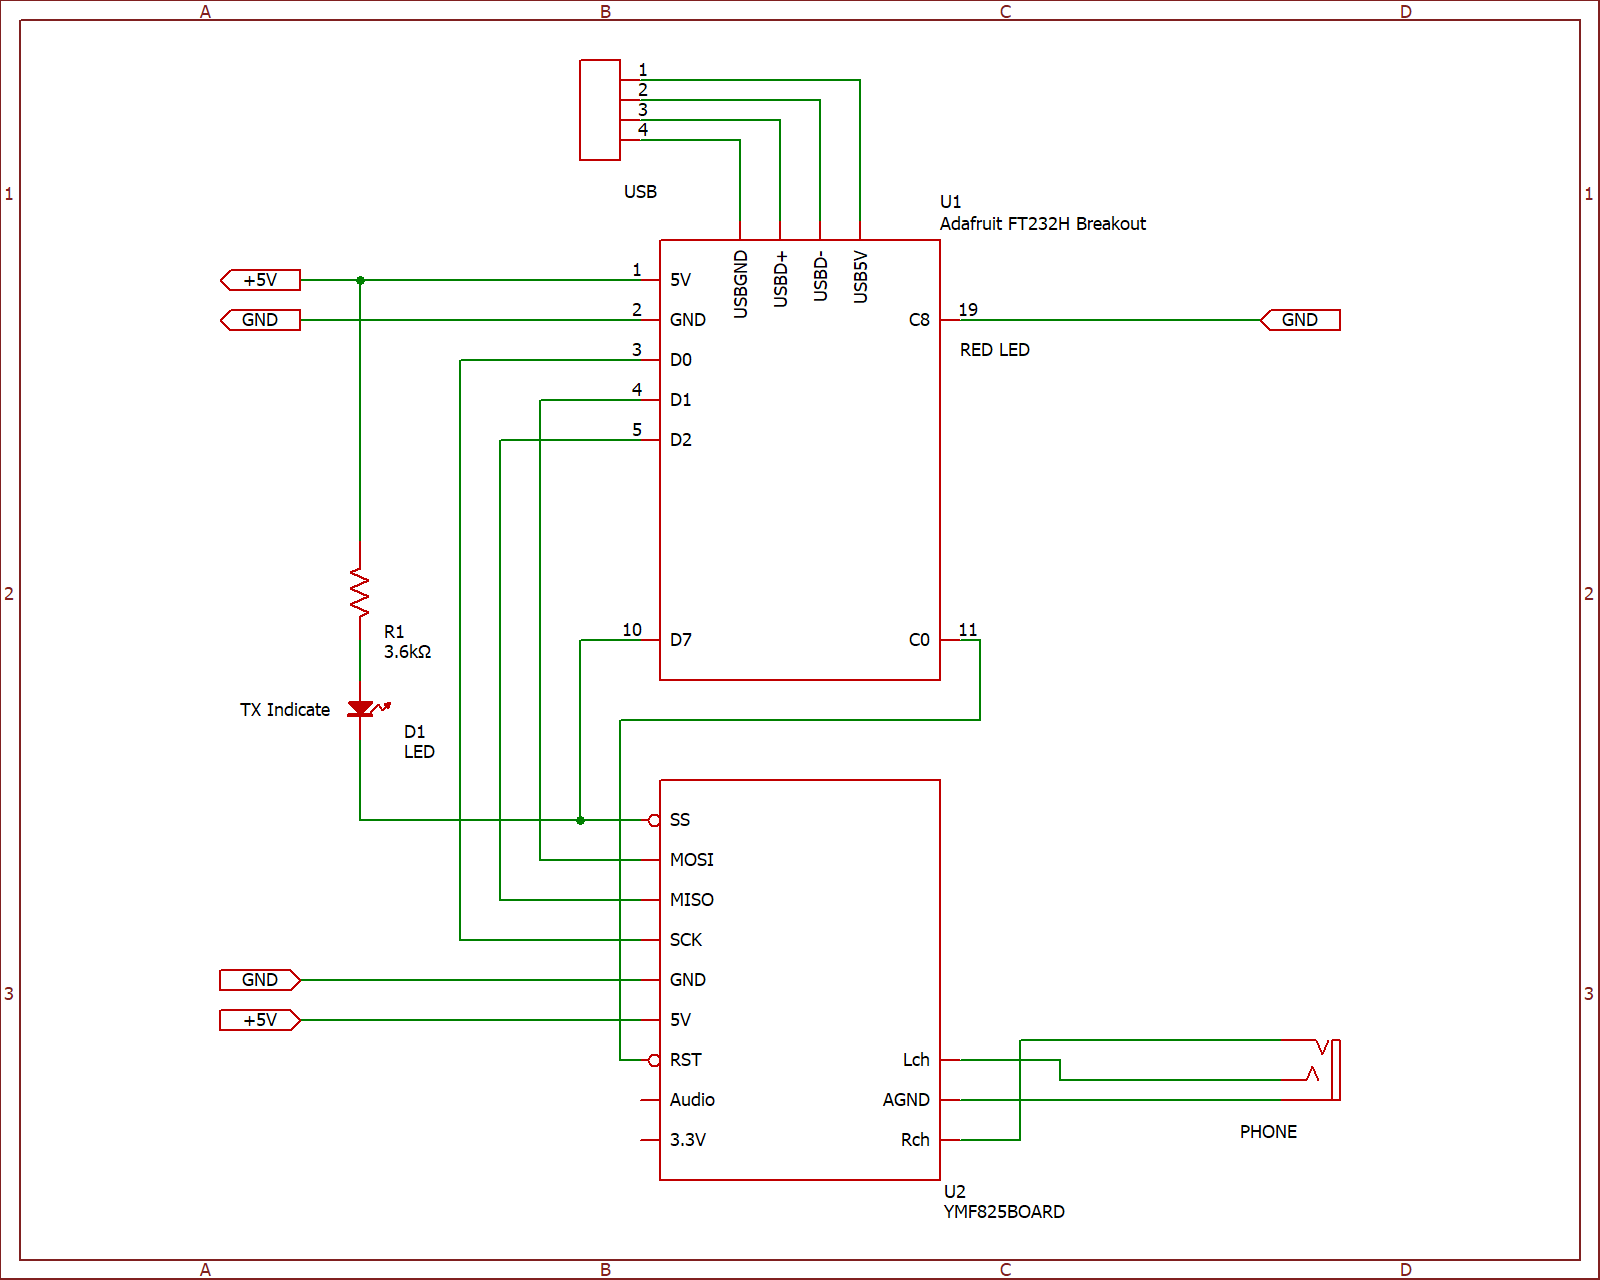
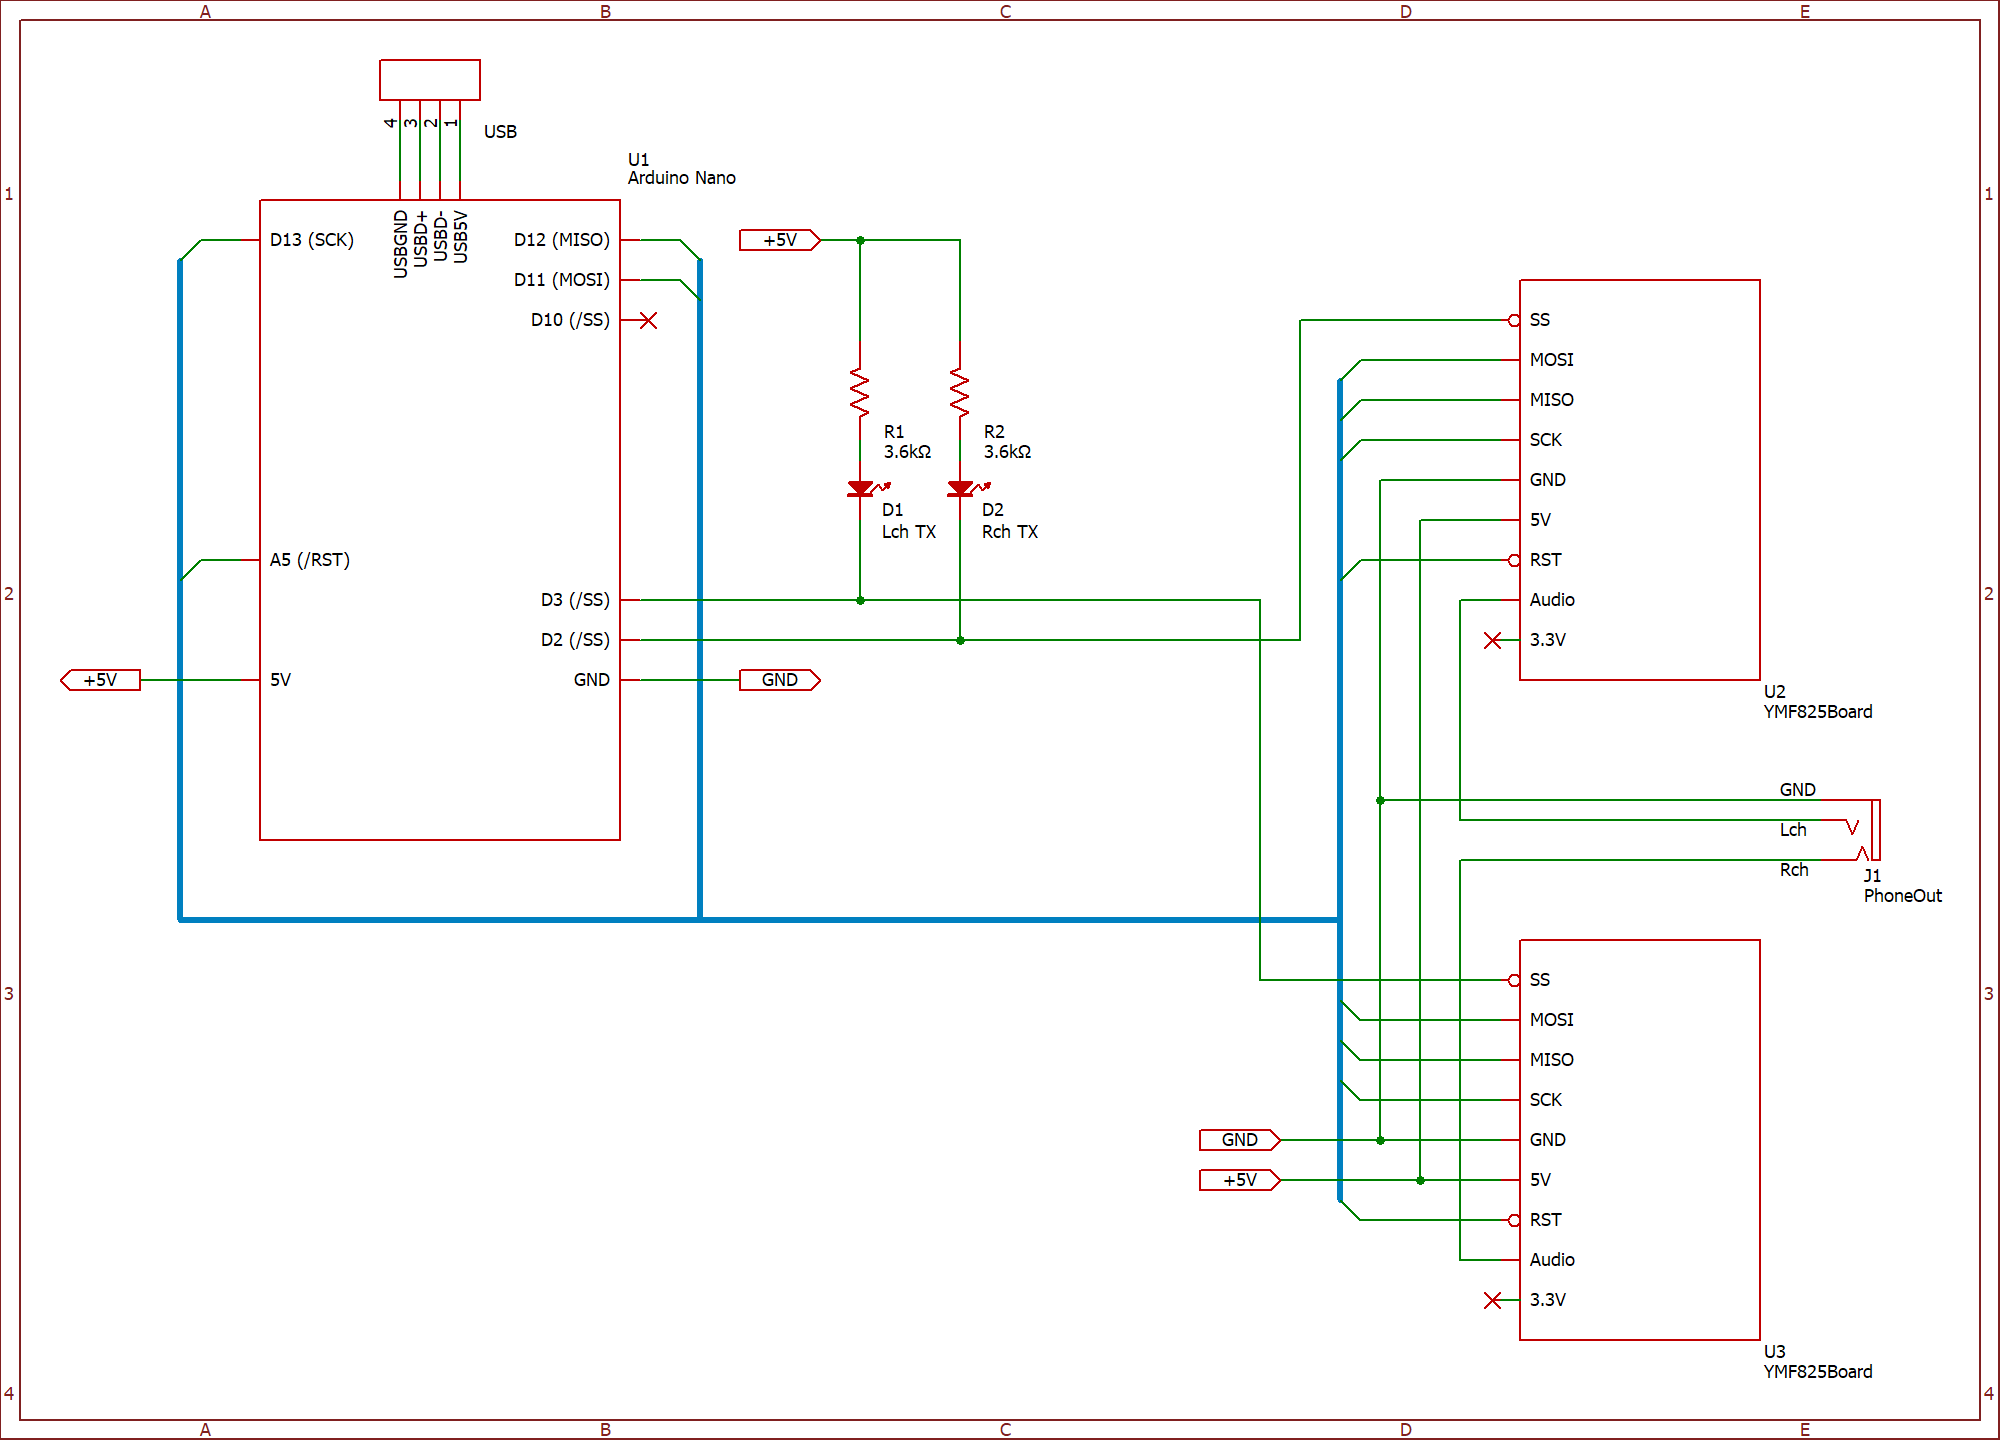
回路図、写真、README更新

diff --git a/README.md b/README.md
@@ -3,16 +3,13 @@ Ymf825
 
 ## 概要
 
-C# から [libMPSSE](http://www.ftdichip.com/Support/Documents/AppNotes/AN_178_User%20Guide%20for%20LibMPSSE-SPI.pdf) を介して [YMF825Board](https://yamaha-webmusic.github.io/ymf825board/intro/) と接続するためのライブラリラッパと各種ライブラリです。
-libMPSSE を使うにあたり、USB-SPI変換インタフェースとして [Adafruit FT232H Breakout](https://learn.adafruit.com/adafruit-ft232h-breakout/) を想定しています。
+C# から Arduino Nano を介して [YMF825Board](https://yamaha-webmusic.github.io/ymf825board/intro/) と接続するためのライブラリラッパと各種ライブラリです。
 
 ## プロジェクト
 
 ### Ymf825
 
-libMPSSE の SPI ライブラリラッパと C# 向けの YMF825 ドライバクラスです。 
-
-x86/x64向けの `libMPSSE.dll` を同梱しています。実行環境に応じて、読み込まれる DLL が自動で切り替わります。
+Arduino Nano 接続ライブラリと C# 向けの YMF825 ドライバクラスです。 
 
 ### Ymf825Server
 
@@ -25,38 +22,14 @@ WCF を用いた IPC（プロセス間通信）でクライアントからのレ
 ## 動作確認環境
 
 - Windows 10 64bit
-- Adafruit FT232H Breakout
-- YMF825Board
+- Arduino Nano
+- YMF825Board (2個)
 
 ## 想定回路
 
 ![回路図](https://raw.githubusercontent.com/nanase/ymf825/master/doc/ymf825board.png)|![ブレッドボード写真 正面](https://raw.githubusercontent.com/nanase/ymf825/master/doc/breadboard_1.jpg)|![ブレッドボード写真 裏面](https://raw.githubusercontent.com/nanase/ymf825/master/doc/breadboard_2.jpg)|![ブレッドボード写真 上 配線](https://raw.githubusercontent.com/nanase/ymf825/master/doc/breadboard_3.jpg)
 :-:|:-:|:-:|:-:
 **回路図** | **正面** | **裏面** | **上**
-
-FT232H と YMF825Board の接続は以下のとおりです。
-
-### Adafruit FT232H Breakout
-
-- **D0** : SCK
-- **D1** : MOSI
-- **D2** : MISO
-- **D7** : /SS
-  - 接続時に D7 を CS (/SS) とするよう変更しています。
-- **C0** : /RST
-
-### YMF825Board
-
-- **/SS** : D7, LED -- L (GND) で点灯
-- **MOSI** : D1
-- **MISO** : D2
-- **SCK** : D0
-- **GND** : GND
-- **5V** : 5V
-- **/RST** : C0
-- **Audio** : No connection
-- **3.3V** : No connection
-
 
 ## ライセンス
 
